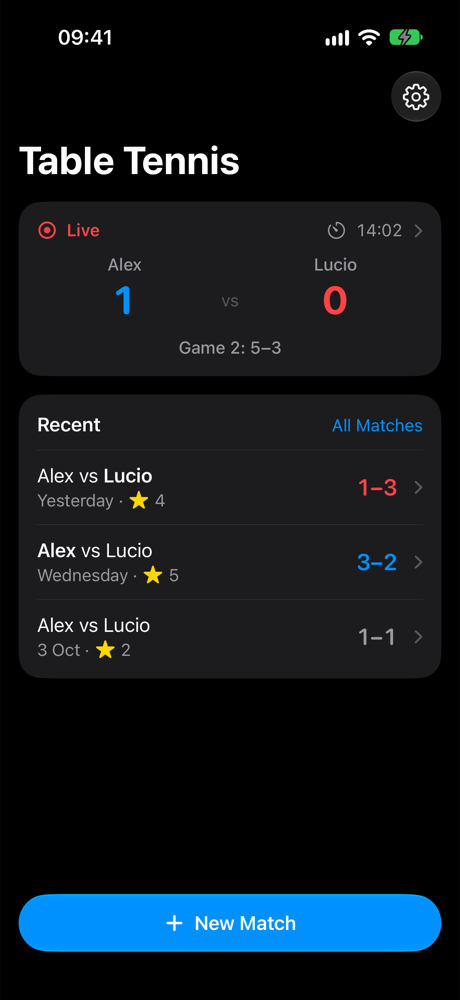
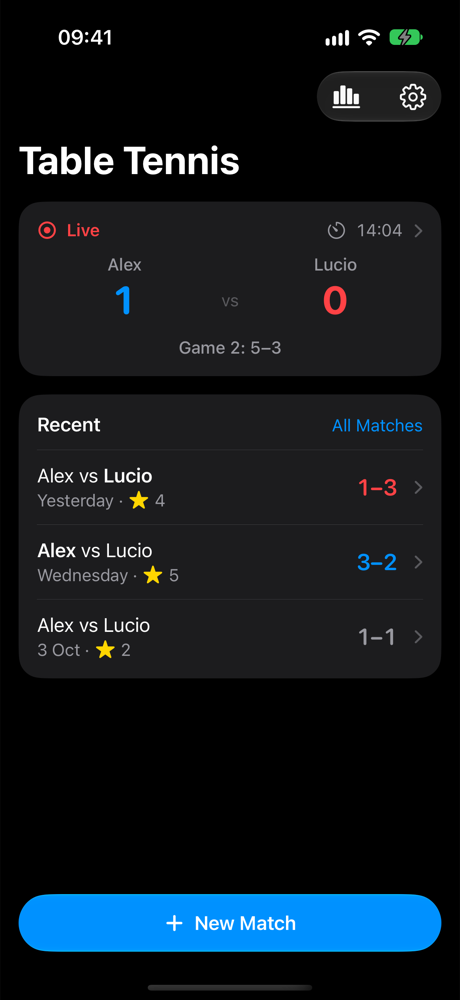
docs: Stats pages, -seedLeague/-openStats, refreshed renders
Repo map entries for the records engine and the three Stats views, a
Stats bullet in the architecture section (derived records, identity
rule, leaderboard order, why the pages go through the home path), the
new launch arguments in Screenshots, docs/screenshots/stats.png, and
the home renders refreshed for the chart button and the card's Stats
link.

Changed region(s): [[0.6696, 0.062, 0.9435, 0.124], [0.3348, 0.961, 0.6696, 0.992], [0.8522, 0.217, 0.8826, 0.248]]

diff --git a/AGENTS.md b/AGENTS.md
@@ -45,10 +45,14 @@ Builds need no booted simulator; `make test` needs an iOS 27 simulator runtime
 score/                      iOS app target
   ScoreApp.swift              @main; builds the ModelContainer and WatchConnectivityManager
   ContentView.swift           Root view -> HomeView
-  HomeView.swift              Home screen: presentation state, sheets, alerts; New Match flow (active-match alert, name sheet)
-  HomeSections.swift          Home dashboard cards (active match / head-to-head, recent matches, watch status), empty state, New Match bar button
+  HomeView.swift              Home screen: presentation state, sheets, alerts; New Match flow (active-match alert, name sheet); NavigationPath + StatsRoute destination
+  HomeSections.swift          Home dashboard cards (active match / head-to-head with a Stats link, recent matches, watch status), empty state, New Match bar button
   MatchNameSheet.swift        New Match sheet: Form with the two player names, Cancel / Start
-  HeadToHead.swift            Pure head-to-head record of the latest match's players (wins, draws, matches); AI previousMeetings extends it
+  HeadToHead.swift            Pure head-to-head of any two players (between(_:_:in:); from(history:) = latest match's pair): wins, draws, games, points, meetings + winner filter; AI previousMeetings extends it
+  PlayerRecords.swift         Pure records for the Stats pages: PlayedMatch (resolved players), leaderboard, PlayerRecord (streak, form), per-opponent records, a player's matches
+  StatsView.swift             Stats page (leaderboard + head-to-head with player choice), StatsModel, StatsRoute + StatsRouteView (the pages behind its rows)
+  PlayerStatsView.swift       A player's page (record, opponents, matches) + LeaderboardRow, RecordText, FormMarks, OutcomeBadge
+  HeadToHeadStatsView.swift   A pair's comparison and matches (All / A won / B won) as list sections, and as a page of its own
   GameView.swift              Live match: camera preview, RecordingStatusBar (capture state), ScoringPanel, alerts
   ExportProgressView.swift    Modal shown while finishActiveMatch() stops, exports and saves (Game + Home)
   MatchHistoryView.swift      List of finished matches (scoreState.matchHistory, reloaded from the store at launch)
@@ -100,7 +104,7 @@ scripts/                    xcb.sh (xcodebuild filter), deploy-device.sh (device
                             detect-orientation.sh + orientation/ (the app's orientation detector as a Mac CLI)
 docs/icons/                 Rendered icon previews (ictool exports)
 docs/plans/                 Design notes for larger pieces of work (highlight-reel.md: orientation fix + scoreboard overlay)
-docs/screenshots/           Home screen and reel-player renders (make screenshot output, refresh when those screens change)
+docs/screenshots/           Home screen, Stats page and reel-player renders (make screenshot output, refresh when those screens change)
 .github/workflows/ci.yml    lint (macos-26) + build/test (xcode-27 image)
 ```
 
@@ -125,6 +129,14 @@ docs/screenshots/           Home screen and reel-player renders (make screenshot
   first) from the finished `StoredMatch`es; anything that re-projects the active match must
   keep that history. Undo marks an event `isUndone` and appends an
   `eventUndone` event; projection skips undone events.
+- **Stats** are derived, never stored: `PlayerRecords(history:)` recomputes every record from
+  `scoreState.matchHistory` (`StatsModel` caches it per history change). Players are recognised as in
+  the head-to-head and the AI summary (`MatchPlayers.names(of:)`/`key`: trimmed, case-insensitive,
+  either order, names recovered from the "A vs B - date" match name); a match without two different
+  players counts for nobody, and a player shows as most recently spelled. Leaderboard order: win rate
+  (a match without a winner is played, not won), wins, fewer losses, name. The Stats pages are
+  `StatsRoute` values on HomeView's `NavigationPath`, resolved at the stack's root: a value link on a
+  page pushed with `navigationDestination(isPresented:)` does not push.
 - **Match rules** live in `ScoreAnnouncementUtils`/`ServingLogic` and are applied by
   `WatchConnectivityManager`: a game ends itself at 11 with two clear; a game win that
   decides the best of five sets `matchWonBy` and GameView offers to end the match; End Game
@@ -206,6 +218,9 @@ make screenshot OUT=.build/shots/home-dark.png DARK=1 NO_BUILD=1 ARGS="-seedSamp
 make screenshot OUT=.build/shots/sheet.png NO_BUILD=1 ARGS="-seedSampleMatches -showNewMatchSheet"
 make screenshot OUT=.build/shots/home-ax.png NO_BUILD=1 \
   ARGS="-seedSampleMatches -UIPreferredContentSizeCategoryName UICTContentSizeCategoryAccessibilityL"
+# the Stats page: four players (leaderboard + player choice), or two (no choice), or none (empty state)
+make screenshot OUT=.build/shots/stats.png NO_BUILD=1 ARGS="-seedLeague -openStats"
+make screenshot OUT=.build/shots/stats-two.png NO_BUILD=1 ARGS="-seedSampleMatches -openStats"
 # the newest match's detail screen with a real exported reel (mock footage + scoreboard); --wait covers the export
 scripts/screenshot.sh --wait 15 --args "-seedSampleMatches -seedReel -openLatestMatch" .build/shots/reel-detail.png
 # the same with a portrait (720x1280) recording, for the inline player's portrait shape
@@ -218,7 +233,11 @@ scripts/screenshot.sh --no-build --wait 20 --args "-seedSampleMatches -seedReel 
   every stored match (a launch without seed arguments keeps whatever the last run stored); `-seedSampleMatches`
   replaces every stored match with six finished Alex vs Lucio matches (one with no winner, each with
   points, highlights and game events); `-seedActiveMatch` adds a live match 14 minutes in (1-0 in
-  games, 5-3 in game two), so the home screen shows its resume state; `-showNewMatchSheet` opens the
+  games, 5-3 in game two), so the home screen shows its resume state; `-seedLeague` replaces every stored match
+  with twelve finished matches between Alex, Lucio, Mia and Sam over the last three months (Alex vs Lucio in both
+  name orders, one without a winner): the Stats page with a leaderboard and a choice of players; `-openStats`
+  opens the Stats page as the home screen appears (the head-to-head's matches and the player pages are below
+  it: scroll or tap with UI automation, e.g. the "Lucio won" segment); `-showNewMatchSheet` opens the
   new-match sheet on the home screen; `-seedReel` (with `-seedSampleMatches`) writes a 20 s mock recording
   as the newest match's full video and runs the real highlight reel export with the scoreboard (four 4.5 s
   clips scored from that match's highlights); `-seedReelPortrait` does the same with a 720x1280 recording;
@@ -238,9 +257,10 @@ scripts/screenshot.sh --no-build --wait 20 --args "-seedSampleMatches -seedReel 
   is UIKit's own Dynamic Type override; check at least `AccessibilityL` for truncation.
 - `scripts/screenshot.sh --udid <UDID> --no-build --wait 5 out.png` targets another simulator or
   reuses the last build; `--wait` lengthens the launch-to-capture delay for slow screens.
-- `.build/shots/` is gitignored; the home screen's renders and the detail screen's player
-  (`reel-detail-player.png`, from `-seedSampleMatches -seedReel -openLatestMatch`) live in `docs/screenshots/`
-  (`sips -Z 1000` copies): refresh them when those screens change.
+- `.build/shots/` is gitignored; the home screen's renders, the detail screen's player
+  (`reel-detail-player.png`, from `-seedSampleMatches -seedReel -openLatestMatch`) and the Stats page
+  (`stats.png`, from `-seedLeague -openStats`) live in `docs/screenshots/` (`sips -Z 1000` copies): refresh them
+  when those screens change.
 
 ## Highlight reel
 
